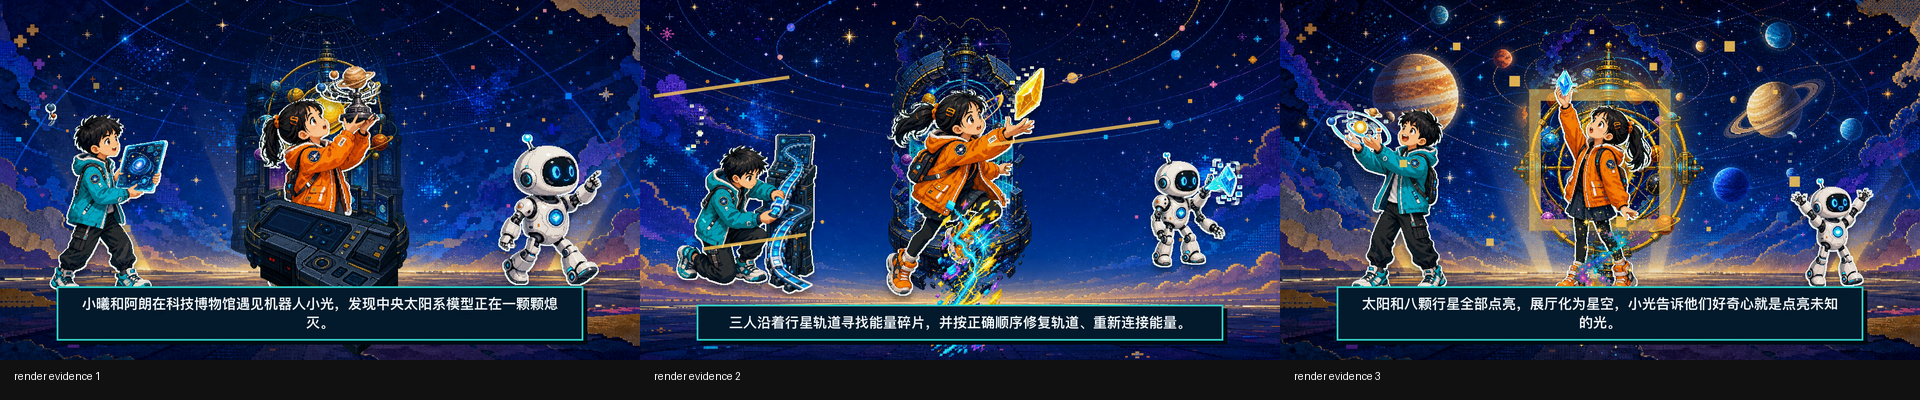
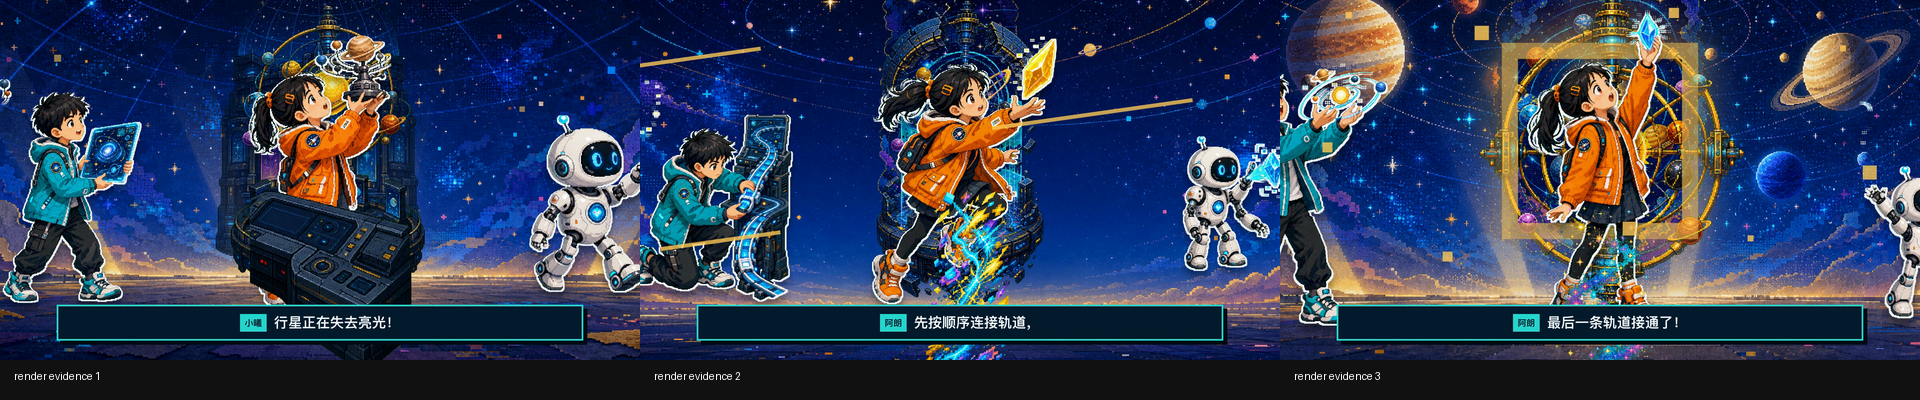
Complete professional manga v2 renders

diff --git a/skills/verify-hyperframes-video/scripts/verify.py b/skills/verify-hyperframes-video/scripts/verify.py
@@ -342,7 +342,7 @@ def check(production: Path, run_hyperframes: bool = True) -> dict:
     if run_hyperframes:
         command_reports.append(
             run_command(
-                ["npx", "--yes", "hyperframes@0.7.70", "lint", "--verbose", "."],
+                ["npx", "--yes", "hyperframes@0.7.71", "lint", "--verbose", "."],
                 production,
                 production / "qa/hyperframes-lint.log",
             )
@@ -352,7 +352,7 @@ def check(production: Path, run_hyperframes: bool = True) -> dict:
                 [
                     "npx",
                     "--yes",
-                    "hyperframes@0.7.70",
+                    "hyperframes@0.7.71",
                     "check",
                     "--strict",
                     "--snapshots",
@@ -388,7 +388,7 @@ def check(production: Path, run_hyperframes: bool = True) -> dict:
                 [
                     "npx",
                     "--yes",
-                    "hyperframes@0.7.70",
+                    "hyperframes@0.7.71",
                     "snapshot",
                     "--at",
                     ",".join(f"{value:.3f}" for value in midpoints),
@@ -405,7 +405,7 @@ def check(production: Path, run_hyperframes: bool = True) -> dict:
             run_command(
                 [
                     "env",
-                    "HYPERFRAMES_SKILL_PKG_VERSION=0.7.70",
+                    "HYPERFRAMES_SKILL_PKG_VERSION=0.7.71",
                     "HYPERFRAMES_SKILL_BOOTSTRAP_DEPS=1",
                     "node",
                     str(ANIMATION_MAP),
@@ -634,16 +634,17 @@ def authored_audio_sync_findings(production: Path, manifest: dict) -> list[dict]
             subject for subject in motion["subjects"] if subject["role"] == "primary"
         )
         primary_start = scene["startSeconds"] + primary["entranceStart"]
+        anticipation_lead = primary_start - actual
         findings.append(
             {
                 "id": f"{scene['id']}-entry-sfx-sync",
                 "pass": math.isclose(actual, expected, abs_tol=0.001)
-                and abs(actual - primary_start) <= 0.25,
+                and 0 <= anticipation_lead <= 0.30,
                 "detail": {
                     "sfxStart": actual,
                     "expected": expected,
                     "primaryEntrance": primary_start,
-                    "deltaSeconds": abs(actual - primary_start),
+                    "anticipationLeadSeconds": anticipation_lead,
                 },
             }
         )

diff --git a/skills/batch-task-card-videos/scripts/pipeline.py b/skills/batch-task-card-videos/scripts/pipeline.py
@@ -164,7 +164,7 @@ def init_project(production: Path) -> None:
         [
             "npx",
             "--yes",
-            "hyperframes@0.7.70",
+            "hyperframes@0.7.71",
             "init",
             str(production),
             "--non-interactive",
@@ -218,6 +218,18 @@ def set_ready_states(production: Path) -> dict:
         if condition and stages[stage]["status"] in {"pending", "blocked"}:
             stages[stage] = {"status": "ready", "evidence": [], "updatedAt": now_iso()}
 
+    if (
+        queue_complete(production)
+        and stages["visual_generation"]["status"] in {"pending", "ready", "running"}
+    ):
+        stages["visual_generation"] = {
+            "status": "complete",
+            "evidence": [
+                "tmp/imagegen/prompt-queue.jsonl",
+                "asset-manifest.json",
+            ],
+            "updatedAt": now_iso(),
+        }
     ready("visual_generation", stages["plan"]["status"] == "complete" and not queue_complete(production))
     ready("audio", stages["plan"]["status"] == "complete")
     ready("layer_processing", stages["visual_generation"]["status"] == "complete")
@@ -433,7 +445,7 @@ def start_previews(
         command = [
             "npx",
             "--yes",
-            "hyperframes@0.7.70",
+            "hyperframes@0.7.71",
             "preview",
             "--background",
             "--no-open",
@@ -444,7 +456,7 @@ def start_previews(
             command = [
                 "npx",
                 "--yes",
-                "hyperframes@0.7.70",
+                "hyperframes@0.7.71",
                 "preview",
                 "--stop",
             ]
@@ -515,7 +527,7 @@ def render_one(
                     [
                         "npx",
                         "--yes",
-                        "hyperframes@0.7.70",
+                        "hyperframes@0.7.71",
                         "render",
                         "--quality",
                         "high",

diff --git a/tests/test_pipeline.py b/tests/test_pipeline.py
@@ -336,6 +336,34 @@ def test_concurrent_production_writes_are_isolated(scripts, tmp_path):
     assert ids == card_ids
 
 
+def test_ready_state_recovers_completed_visual_queue(scripts, tmp_path):
+    production = tmp_path / "videos/recovered"
+    scripts["plan"].compile_card(
+        BATCH_PATH,
+        "guangzhou-tower-cloud-team",
+        production,
+    )
+    plan = json.loads((production / "story-plan.json").read_text(encoding="utf-8"))
+    queue = scripts["queue"].queue_items(production, plan)
+    for item in queue:
+        item["status"] = "generated"
+    queue_path = production / "tmp/imagegen/prompt-queue.jsonl"
+    queue_path.parent.mkdir(parents=True)
+    queue_path.write_text(
+        "".join(json.dumps(item, ensure_ascii=False) + "\n" for item in queue),
+        encoding="utf-8",
+    )
+
+    status = scripts["pipeline"].set_ready_states(production)
+
+    assert status["stages"]["visual_generation"]["status"] == "complete"
+    assert status["stages"]["visual_generation"]["evidence"] == [
+        "tmp/imagegen/prompt-queue.jsonl",
+        "asset-manifest.json",
+    ]
+    assert status["stages"]["layer_processing"]["status"] == "ready"
+
+
 def test_batch_contact_sheet(scripts, tmp_path):
     batch = {"cards": [{"id": "one"}, {"id": "two"}]}
     for card in batch["cards"]:

diff --git a/tests/create_offline_smoke.py b/tests/create_offline_smoke.py
@@ -45,9 +45,9 @@ def scaffold(production: Path) -> None:
         "private": True,
         "type": "module",
         "scripts": {
-            "dev": "npx --yes hyperframes@0.7.70 preview",
-            "check": "npx --yes hyperframes@0.7.70 check",
-            "render": "npx --yes hyperframes@0.7.70 render",
+            "dev": "npx --yes hyperframes@0.7.71 preview",
+            "check": "npx --yes hyperframes@0.7.71 check",
+            "render": "npx --yes hyperframes@0.7.71 render",
         },
     }
     (production / "package.json").write_text(

diff --git a/qa/completion-audit.md b/qa/completion-audit.md
@@ -1,43 +1,66 @@
-# HyperFrames 像素视频批次完成审计
+# HyperFrames 专业漫剧批次完成审计
 
 - 审计日期：2026-07-25
-- 批次：`ai-little-director-pixel-v1`
+- 批次：`ai-little-director-manga-v2`
 - 结果：通过
-- 最终批准：`approvals/ai-little-director-pixel-v1-studio-preview.json`
-- 批次接触表：`qa/batch-contact-sheet.jpg`
+- HyperFrames：`0.7.71`
+- 最终批准：`approvals/ai-little-director-manga-v2-studio-preview.json`
+- 九镜头成片接触表：`qa/professional-manga-v2-render-contact-sheet.jpg`
 
 ## 最终成片
 
-| 视频 | 时长 | 帧数 | 编码 | 最终路径 | SHA-256 |
-| --- | ---: | ---: | --- | --- | --- |
[4 lines of base64/hex data omitted]
+| 视频 | 时长 | 帧数 | 大小 | 最终路径 | SHA-256 |
+| --- | ---: | ---: | ---: | --- | --- |
[4 lines of base64/hex data omitted]
 
-四条最终文件均使用 FFmpeg 完整解码视频流和音频流，退出码为 0。FFprobe 检查确认帧数、帧率、分辨率、H.264 视频流和 AAC 音频流均符合声明。
+四条最终文件均为 1920x1080、30fps、H.264 视频与 AAC 音频。FFmpeg
+完整解码退出码均为 0；FFprobe 的时长、帧数、编码和分辨率与 manifest
+一致。
+
+## 专业漫剧升级
+
+- 保留三个叙事场景和资产组，每场编译三个编辑镜头，每条视频共九镜头。
+- 每场具有 wide、medium、close 景别变化、两个场内切点和角色微表演。
+- 四张任务卡均使用明确的多人脚本、角色音色、逐行停顿、词级时码和短字幕。
+- 根 composition 统一持有对白、BGM、环境声及九个镜头 SFX。
+- 图层保持 backdrop、rear、architecture、subjects、foreground 独立运动。
+- `.motion.json` 记录镜头覆盖、景别、焦点、切点、anticipation 和主体边界。
+- 批次批准绑定当前 production manifest、HTML 和 motion sidecar 的 SHA-256，
+  旧版批准不能放行本批次。
 
 ## 流水线与素材
 
-- 四个工程的 `plan`、`visual_generation`、`audio`、`layer_processing`、`composition`、`check`、`preview`、`render`、`qa` 阶段均为 `complete`。
-- 四个 `asset-manifest.json` 各包含 9 个 Imagegen 任务，共 36 个；36 个状态均为 `generated`。
-- 每个工程包含 3 个子 composition 和 3 个 `.motion.json`。
-- 每个工程均包含 `.media/manifest.jsonl` 与 `.media/index.md`，渲染媒体已冻结到本地。
-- 每个工程均包含 `BRIEF.md`、`SCRIPT.md`、`STORYBOARD.md`、`frame.md`。
-- Edge TTS 使用 `zh-CN-XiaoxiaoNeural`；每条视频包含 3 段旁白和词级时间。
-- 全项目排除依赖目录后搜索旧视频引擎名称为零命中，`package.json` 中不存在旧视频引擎依赖。
+- 四工程的 `plan`、`visual_generation`、`audio`、`layer_processing`、
+  `composition`、`check`、`preview`、`render`、`qa` 阶段均为 `complete`。
+- 四个资产清单共包含 36 项已生成 Imagegen 素材；重跑复用现有源素材。
+- 每个工程包含 3 个子 composition、3 个 motion sidecar、9 个编辑镜头。
+- 媒体全部冻结到本地，渲染期间不访问远程素材。
+- 项目包含 7 个有效 skills，其中新增 `direct-professional-manga-video`。
+- HyperFrames 从 `0.7.70` 升级到 `0.7.71`，升级后的四工程重新通过严格检查。
 
 ## 验收证据
 
-- 项目单元测试：`7 passed`。
-- 六个项目内 skills 均通过 `skill-creator/scripts/quick_validate.py`。
-- `qa/offline-smoke/summary.json`：两个离线工程均为 `pass: true`。
+- 项目测试：`10 passed`。
+- 7 个项目 skills 均通过 `skill-creator` 的 `quick_validate.py`。
 - 四个 `qa/verification.json` 均为 `pass: true`。
 - 四个 `qa/render-verification.json` 均为 `pass: true`。
-- 四个 `qa/render-manual-review.json` 均为 `pass: true`。
-- 四个 `qa/render-contact-sheet.png` 与四个 `qa/render-transition-contact-sheet.png` 均已检查。
-- 12 个入场 SFX 与主角入场时间差均在 0.12–0.18 秒，低于 0.25 秒门限。
-- 人工检查未发现黑帧、转场遮罩残留、人物裁切、字幕越界、明显绿边、错误遮挡或朝向异常。
+- 四个 `qa/render-manual-review.json` 均为 `pass: true`，并绑定最终
+  MP4 SHA-256、九镜头接触表和转场接触表。
+- 每条成片均生成 9 个镜头中点、6 个转场边界帧及成片接触表。
+- 入场 SFX 均早于或等于主角入场，声音预切为 0–0.30 秒。
+- 人工检查未发现黑帧、异常裁切、字幕越界、明显绿边、错误镜像、
+  主体比例失衡、前景遮脸或转场残留。
+
+## 本次修复
+
+- 状态恢复现在会根据完整的 Imagegen 队列，把重新编译后错误显示为
+  `pending` 的 `visual_generation` 恢复为 `complete`。
+- 入场音效 QA 从无方向的固定误差改为有方向的 anticipation lead：
+  音效不得晚于主角，最多提前 0.30 秒。
+- 批次正式渲染继续限制为两个并发槽。
 
 ## 复跑入口
 
@@ -46,5 +69,5 @@
   --batch batches/ai-little-director-cards.json \
   --workspace .
 
-.venv/bin/pytest -q
+.venv/bin/python -m pytest -q
 ```
